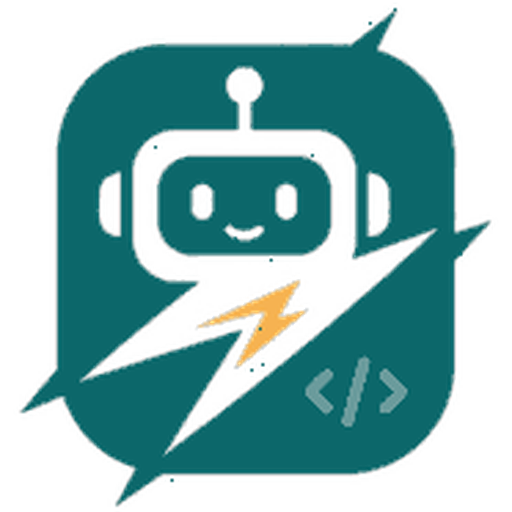
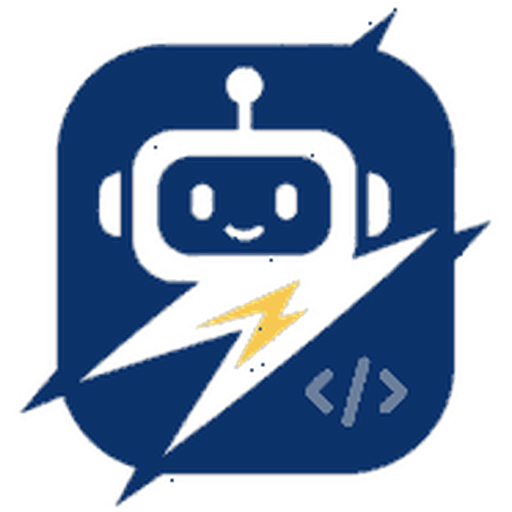
Rebrand the site + PWA to the new navy/gold Hero Tech Academy palette
Replaces the teal brand palette everywhere with a deep navy + gold theme
matching the new marketing artwork: --brand/--brand-dark/--brand-light and
--gold in both the light and dark CSS theme blocks, plus three hardcoded
rgba() values that had the old teal baked in directly instead of using the
CSS variable. The .link-button color (used for the submission "View"
links) now follows --brand too instead of an unrelated hardcoded blue.

Also updates the PWA's theme-color (index.html meta tag and
manifest.json) to the new navy, and recolors the logo/icon artwork itself
(logo-icon.png, logo-full.png, and all three PWA icon sizes) from teal to
navy with a gold bolt/accent, via a hue-shift that preserves the original
artwork and only changes its two brand hues.

Claude-Session: https://claude.ai/code/session_01RwPWiWhSTdtMyLKVAHfGxE

diff --git a/src/styles.css b/src/styles.css
@@ -7,10 +7,13 @@
   --panel: #ffffff;
   --panel-rgb: 255, 255, 255;
   --bg: #eef1f6;
-  --brand: #1f7a72;
-  --brand-dark: #12514c;
-  --brand-light: #e4f3f1;
-  --gold: #c2901f;
+  /* Hero Tech Academy brand palette: deep navy + gold, matching the
+     logo/marketing artwork (see src/assets/logo-*.png and
+     pwa-icon-*.png, recolored to the same hues). */
+  --brand: #0a316a;
+  --brand-dark: #071d40;
+  --brand-light: #e6ecf6;
+  --gold: #bf8a12;
   --coral: #c9573f;
   --blue: #315f9f;
   --green: #2f7a4f;
@@ -43,10 +46,12 @@
   --panel: #202b3a;
   --panel-rgb: 32, 43, 58;
   --bg: #10161f;
-  --brand: #3fb4a6;
-  --brand-dark: #1f7a72;
-  --brand-light: #1b3733;
-  --gold: #dba83c;
+  /* Same navy + gold brand, lightened/brightened enough to stay legible
+     against a near-black background. */
+  --brand: #6fa3e0;
+  --brand-dark: #3d6fa8;
+  --brand-light: #1b2a42;
+  --gold: #e8ba3d;
   --coral: #e0836d;
   --blue: #6d9bdd;
   --green: #57b483;
@@ -107,7 +112,7 @@ button:hover,
 button:focus-visible,
 input:focus-visible,
 select:focus-visible {
-  outline: 3px solid rgba(31, 122, 114, 0.18);
+  outline: 3px solid rgba(10, 49, 106, 0.18);
   border-color: var(--brand);
 }
 
@@ -624,7 +629,7 @@ dt {
   background: var(--brand);
   border-color: var(--brand);
   color: #fff;
-  box-shadow: 0 4px 12px rgba(31, 122, 114, 0.25);
+  box-shadow: 0 4px 12px rgba(10, 49, 106, 0.25);
 }
 
 .toolbar button:first-child:hover,
@@ -992,7 +997,7 @@ code {
   background: none;
   border: none;
   padding: 0;
-  color: var(--accent, #2563eb);
+  color: var(--brand);
   font-size: 12px;
   font-weight: 600;
   text-decoration: underline;
@@ -2631,7 +2636,7 @@ code {
 }
 
 .lang-option:hover {
-  background: rgba(31, 122, 114, 0.1);
+  background: rgba(10, 49, 106, 0.1);
   color: var(--ink);
   transform: none;
   box-shadow: none;

diff --git a/index.html b/index.html
@@ -13,7 +13,7 @@
          src/app.js), so a marketing-only visitor never gets an install
          prompt for this. -->
     <link rel="manifest" href="./manifest.json" />
-    <meta name="theme-color" content="#1f7a72" />
+    <meta name="theme-color" content="#0a316a" />
     <link rel="apple-touch-icon" href="./src/assets/pwa-icon-192.png" />
     <meta name="apple-mobile-web-app-capable" content="yes" />
     <meta name="apple-mobile-web-app-status-bar-style" content="black-translucent" />
